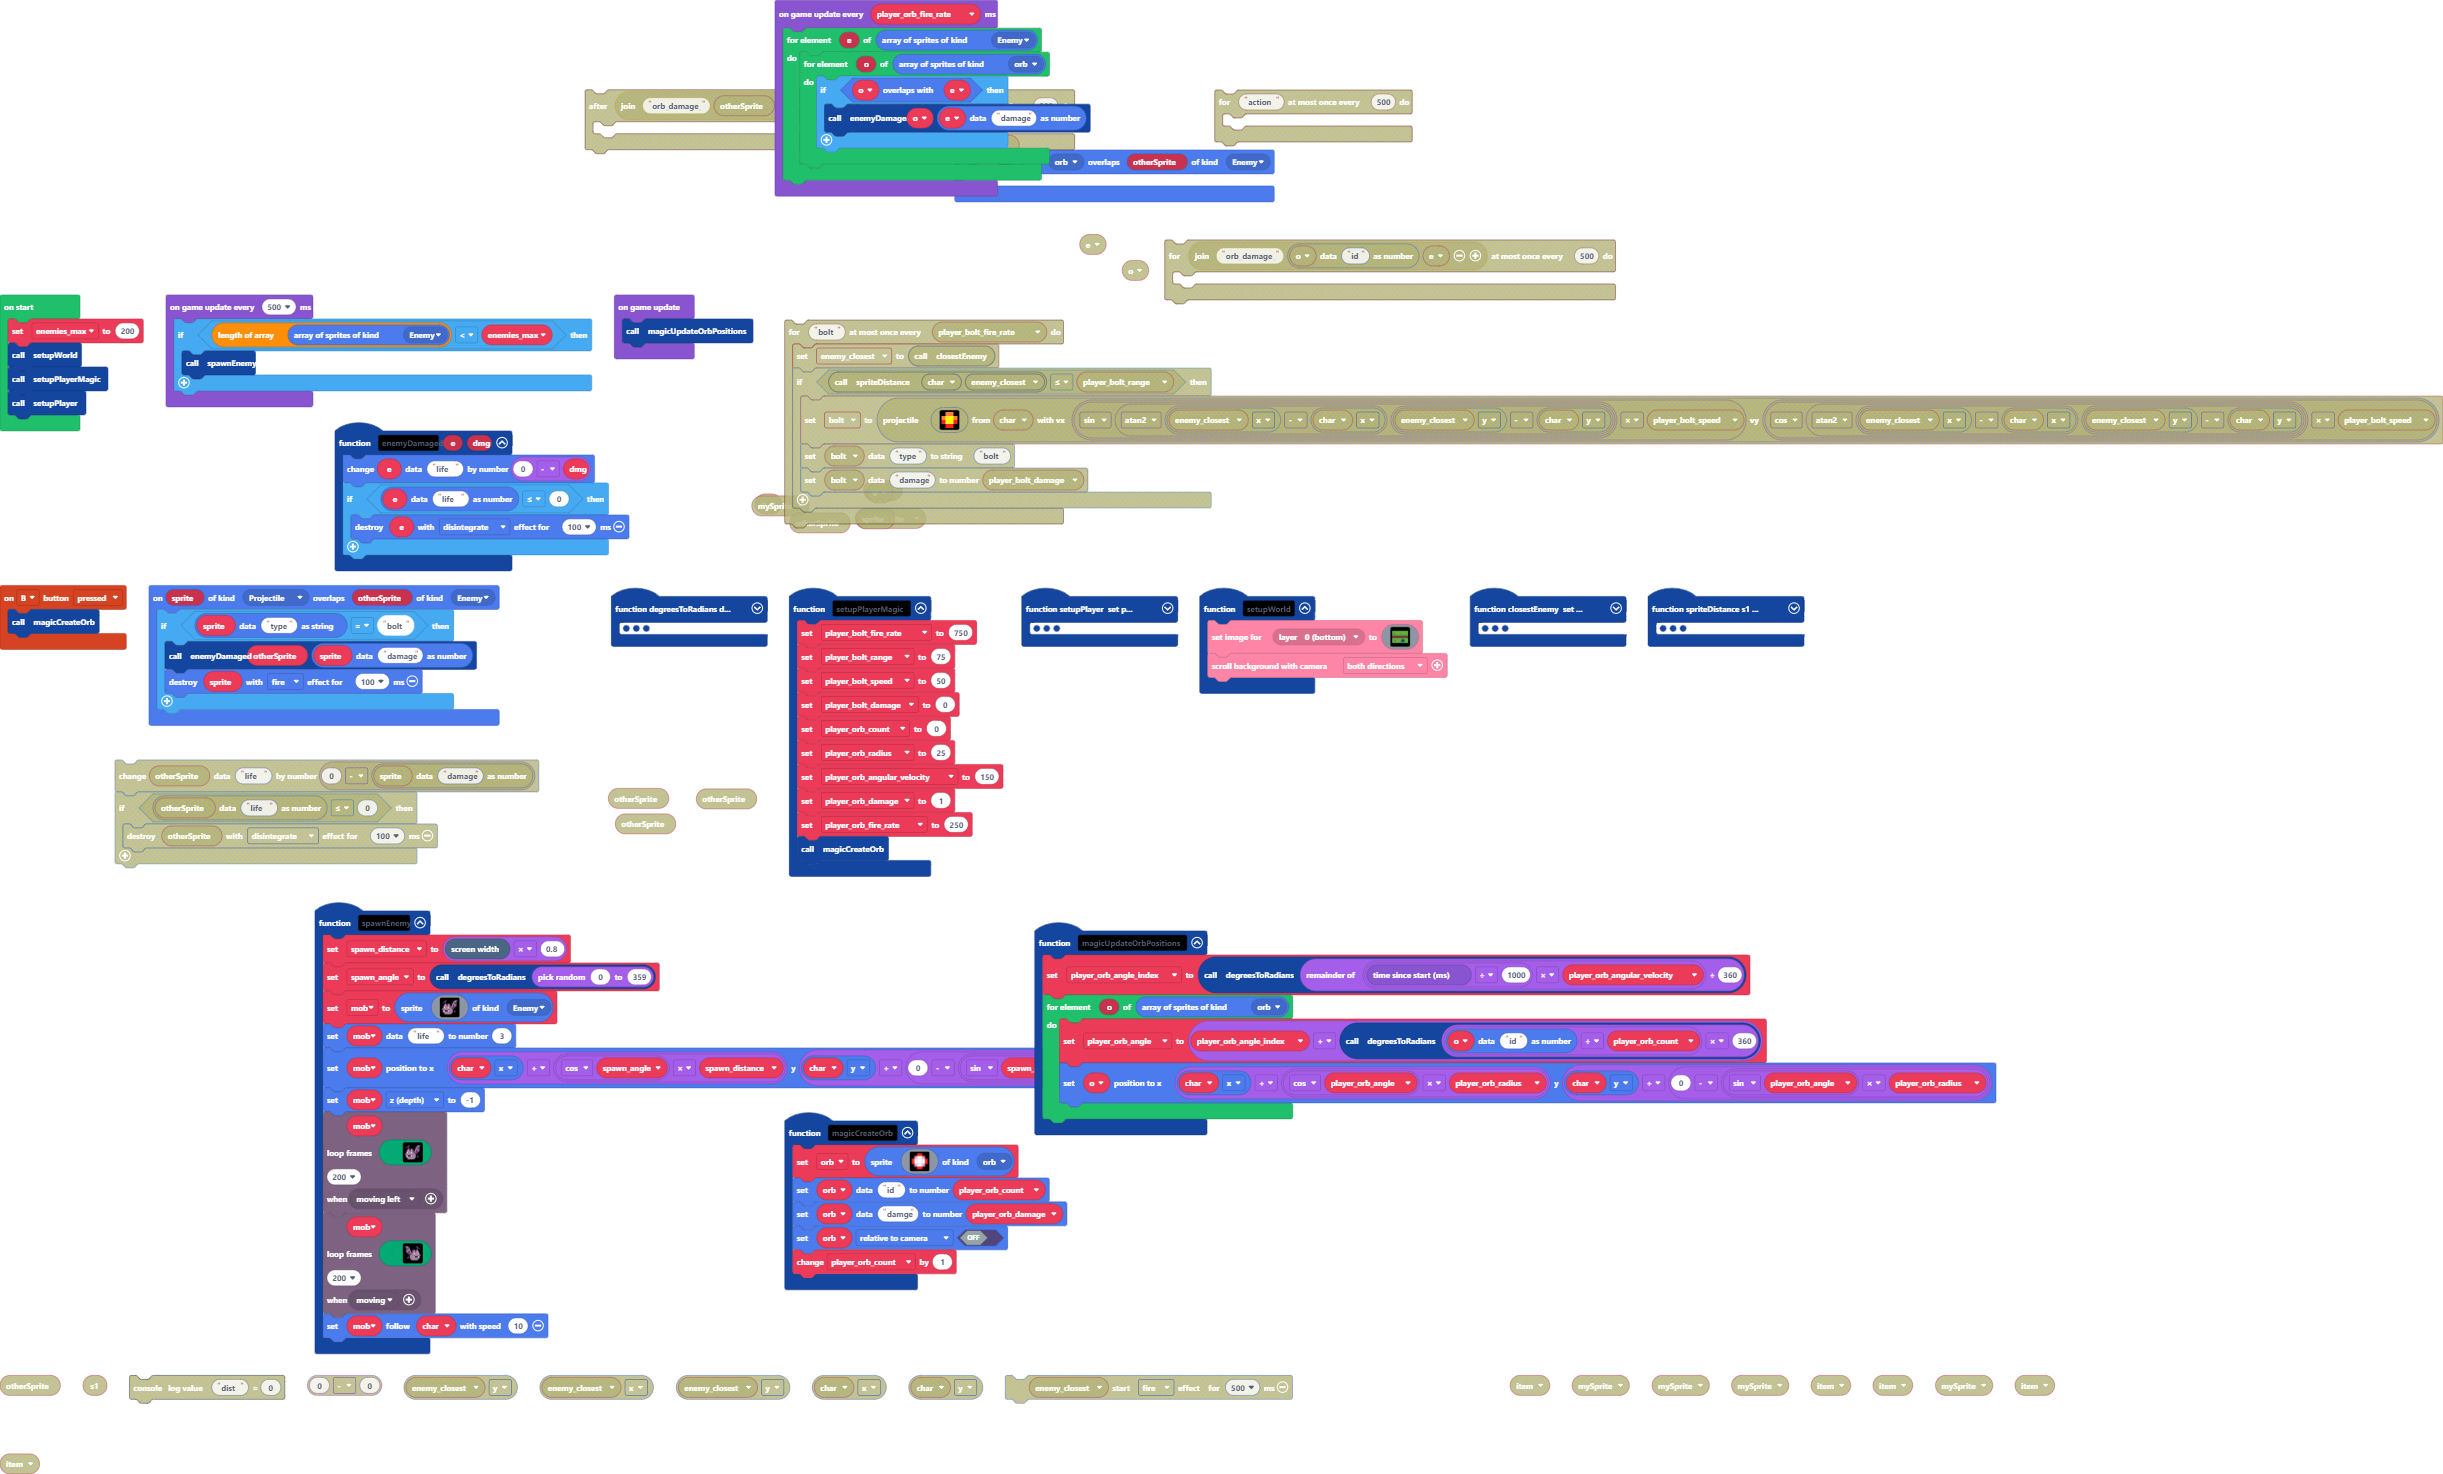
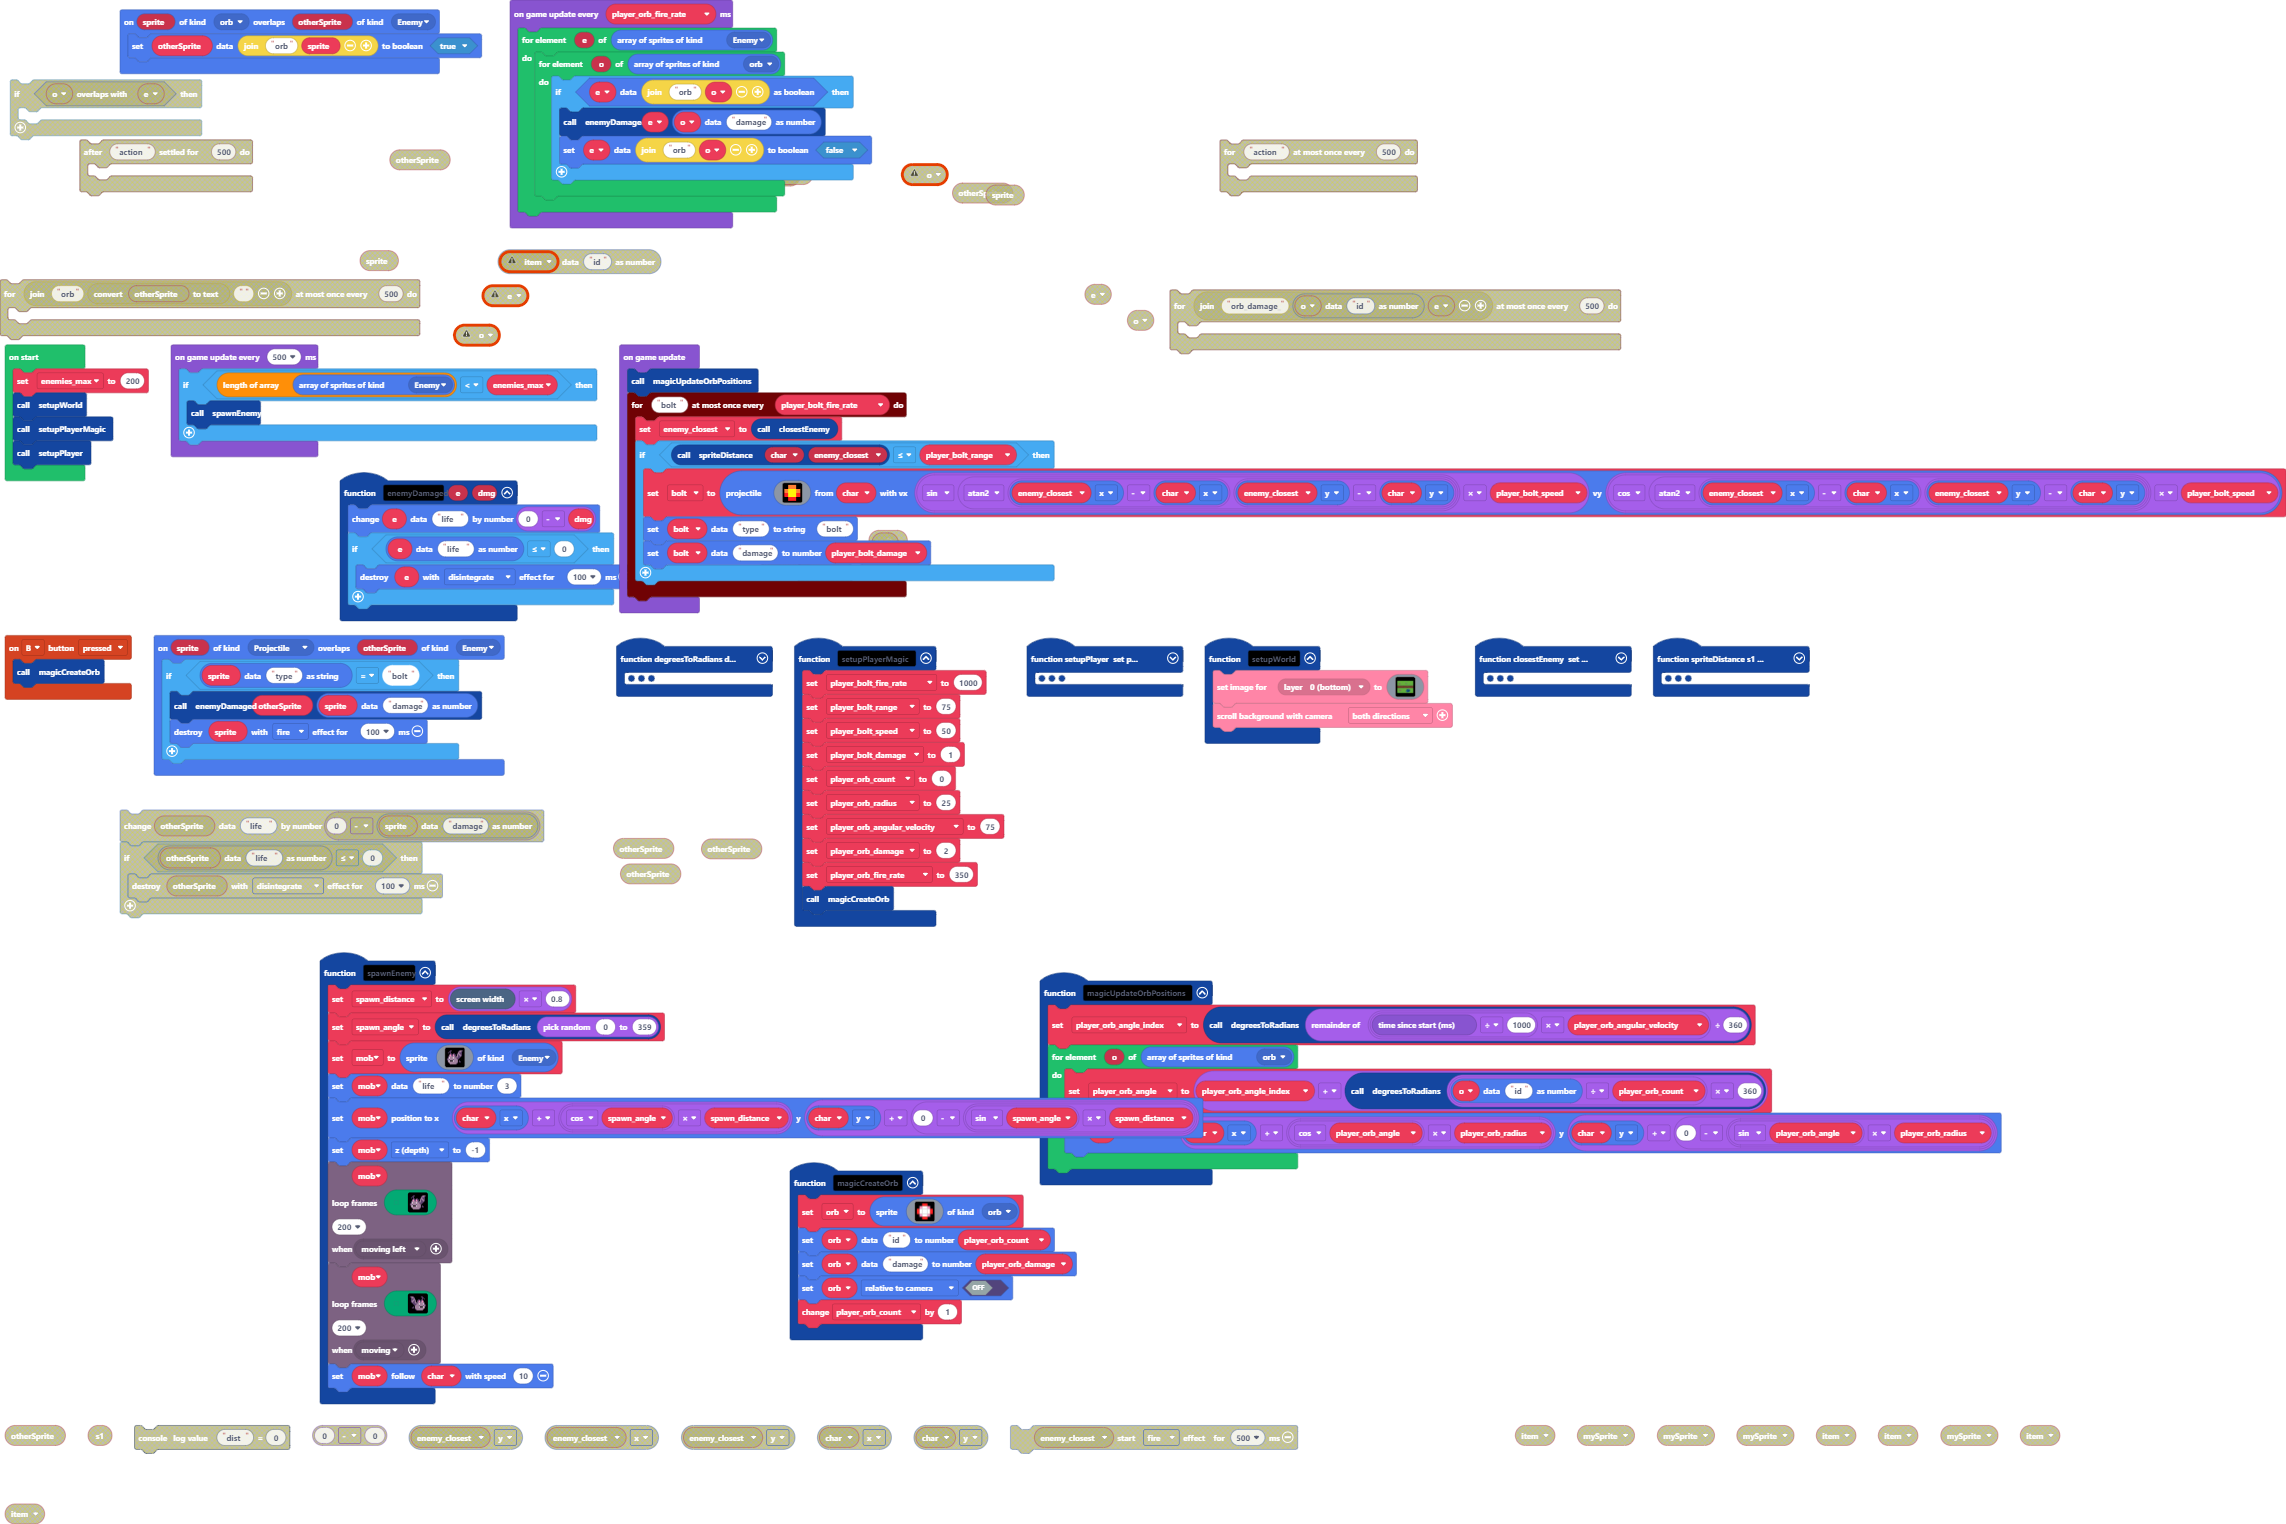
Mostly working Orb damage.

diff --git a/main.ts b/main.ts
@@ -33,7 +33,7 @@ function enemyDamaged (e: Sprite, dmg: number) {
     }
 }
 sprites.onOverlap(SpriteKind.orb, SpriteKind.Enemy, function (sprite, otherSprite) {
-	
+    sprites.setDataBoolean(otherSprite, "orb" + sprite, true)
 })
 function setupWorld () {
     scroller.setLayerImage(scroller.BackgroundLayer.Layer0, img`
@@ -161,15 +161,15 @@ function setupWorld () {
     scroller.scrollBackgroundWithCamera(scroller.CameraScrollMode.BothDirections)
 }
 function setupPlayerMagic () {
-    player_bolt_fire_rate = 750
+    player_bolt_fire_rate = 1000
     player_bolt_range = 75
     player_bolt_speed = 50
-    player_bolt_damage = 0
+    player_bolt_damage = 1
     player_orb_count = 0
     player_orb_radius = 25
-    player_orb_angular_velocity = 150
-    player_orb_damage = 1
-    player_orb_fire_rate = 250
+    player_orb_angular_velocity = 75
+    player_orb_damage = 2
+    player_orb_fire_rate = 350
     magicCreateOrb()
 }
 function degreesToRadians (deg: number) {
@@ -215,7 +215,7 @@ function setupPlayer () {
 function magicCreateOrb () {
     orb = sprites.create(assets.image`orb`, SpriteKind.orb)
     sprites.setDataNumber(orb, "id", player_orb_count)
-    sprites.setDataNumber(orb, "damge", player_orb_damage)
+    sprites.setDataNumber(orb, "damage", player_orb_damage)
     orb.setFlag(SpriteFlag.RelativeToCamera, false)
     player_orb_count += 1
 }
@@ -399,6 +399,7 @@ sprites.onOverlap(SpriteKind.Projectile, SpriteKind.Enemy, function (sprite, oth
         sprite.destroy(effects.fire, 100)
     }
 })
+let bolt: Sprite = null
 let mob: Sprite = null
 let spawn_angle = 0
 let spawn_distance = 0
@@ -426,6 +427,14 @@ setupPlayerMagic()
 setupPlayer()
 game.onUpdate(function () {
     magicUpdateOrbPositions()
+    timer.throttle("bolt", player_bolt_fire_rate, function () {
+        enemy_closest = closestEnemy()
+        if (spriteDistance(char, enemy_closest) <= player_bolt_range) {
+            bolt = sprites.createProjectileFromSprite(assets.image`bolt`, char, Math.sin(Math.atan2(enemy_closest.x - char.x, enemy_closest.y - char.y)) * player_bolt_speed, Math.cos(Math.atan2(enemy_closest.x - char.x, enemy_closest.y - char.y)) * player_bolt_speed)
+            sprites.setDataString(bolt, "type", "bolt")
+            sprites.setDataNumber(bolt, "damage", player_bolt_damage)
+        }
+    })
 })
 game.onUpdateInterval(500, function () {
     if (sprites.allOfKind(SpriteKind.Enemy).length < enemies_max) {
@@ -435,8 +444,9 @@ game.onUpdateInterval(500, function () {
 game.onUpdateInterval(player_orb_fire_rate, function () {
     for (let e of sprites.allOfKind(SpriteKind.Enemy)) {
         for (let o of sprites.allOfKind(SpriteKind.orb)) {
-            if (o.overlapsWith(e)) {
-                enemyDamaged(o, sprites.readDataNumber(e, "damage"))
+            if (sprites.readDataBoolean(e, "orb" + o)) {
+                enemyDamaged(e, sprites.readDataNumber(o, "damage"))
+                sprites.setDataBoolean(e, "orb" + o, false)
             }
         }
     }
